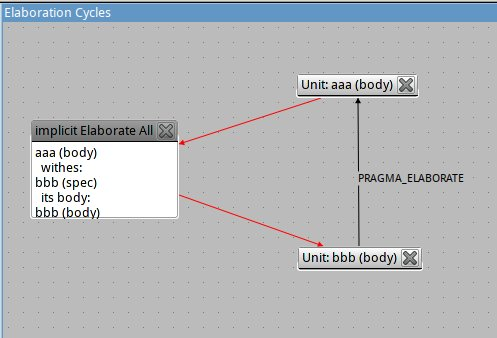
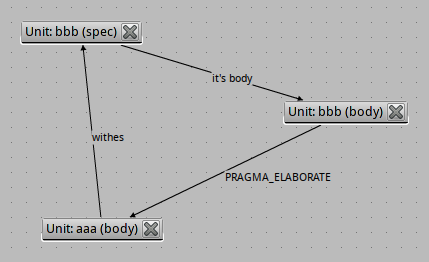
* browsers-elaborations.adb Display each unit of an Elaboration_All dependency as separate box.
* browsers-elaborations-cycle_parser.adb
Clean up current elaboration cycles before compilation/

* browsing.rst
Fix browser description in documentation.

For LC03-008

git-svn-id: svn+ssh://svn.eu.adacore.com/Dev/trunk/gps@199086 936e1b1b-40f2-da11-902a-00137254ae57

diff --git a/docs/users_guide/browsing.rst b/docs/users_guide/browsing.rst
@@ -313,10 +313,9 @@ representation of elaboration dependencies in Elaboration Cycles Browser.
 
 Such visual representation has program units as items in the browser.
 Direct dependencies between program units are displayed as links.
-But dependency caused by pragma Elaborate_All (explicit or implicit one)
-involves chain of several program units. Such dependencies are represented
-as items themselves and contain information about each unit involved in the
-dependency.
+All units involved in dependency caused by pragma Elaborate_All (explicit or
+implicit one) are also presented in the browser and connected by links with
+labels "it's body" and "withed".
 
 .. index:: screen shot
 .. image:: elaboration-graph.jpg
